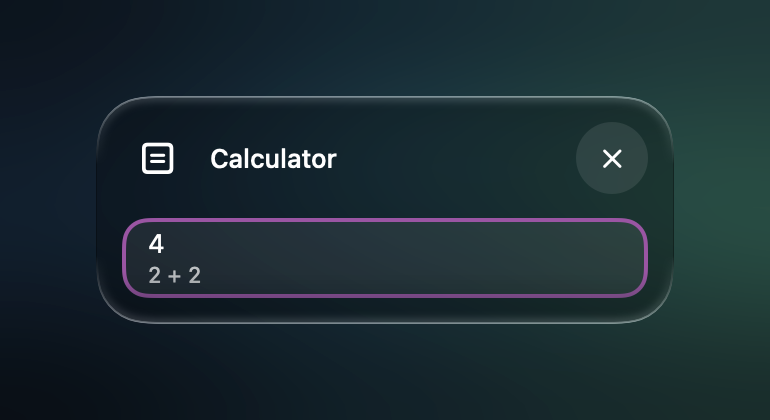
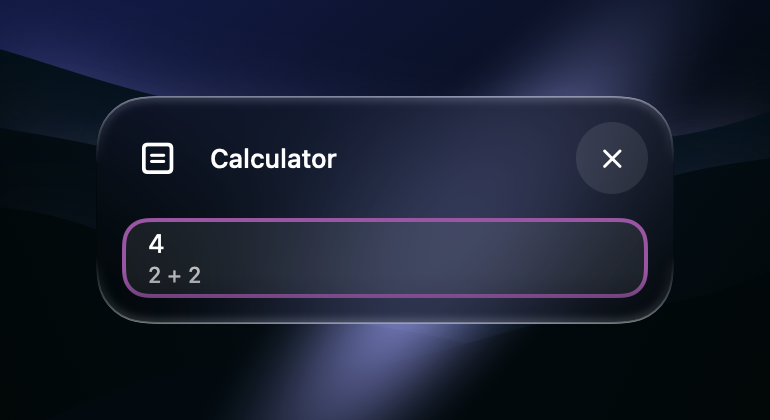
Draw each guide image on a dark ridged wallpaper with a violet light, placed by the image's name, through a real blur

diff --git a/app/Shell/Sandbox/SpotPictureStage.swift b/app/Shell/Sandbox/SpotPictureStage.swift
@@ -6,17 +6,34 @@ import SwiftUI
 struct SpotPictureStage<Content: View>: View {
     let size: CGSize
     let radius: CGFloat
-    @ViewBuilder let content: Content
+    /// What places the wallpaper, such as the name of the picture.
+    let seed: String
+    let content: Content
+
+    init(size: CGSize, radius: CGFloat, seed: String = "", @ViewBuilder content: () -> Content) {
+        self.size = size
+        self.radius = radius
+        self.seed = seed
+        self.content = content()
+    }
 
     static var margin: CGFloat { 48 }
     private static var shade: Double { 0.28 }
+    private static var blur: CGFloat { 40 }
+
+    /// The wallpaper blurred into a picture, because a blur of a view does not show when the view is drawn to a picture.
+    private var blurred: Image {
+        let whole = CGSize(width: size.width + 2 * Self.margin, height: size.height + 2 * Self.margin)
+        let renderer = ImageRenderer(content: SpotWallpaper(seed: seed).frame(width: whole.width, height: whole.height).blur(radius: Self.blur, opaque: true))
+        renderer.scale = 2
+        return renderer.cgImage.map { Image(decorative: $0, scale: 2) } ?? Image(systemName: "square")
+    }
 
     var body: some View {
         let shape = RoundedRectangle(cornerRadius: radius, style: .continuous)
         ZStack {
-            SpotWallpaper()
-            SpotWallpaper()
-                .blur(radius: SpotTheme.blur, opaque: true)
+            SpotWallpaper(seed: seed)
+            blurred
                 .overlay(Color.black.opacity(Self.shade))
                 .overlay(SpotTheme.glass)
                 .mask { shape.frame(width: size.width, height: size.height) }
@@ -28,22 +45,80 @@ struct SpotPictureStage<Content: View>: View {
     }
 }
 
-/// A dark blue-green wallpaper, which stands in for the desktop behind the panel and keeps clear of the accent colour.
+/// A dark wallpaper of layered ridges with a violet light between them, which stands in for the desktop behind the panel.
+/// The seed, such as the name of a picture, places the ridges and the light, so that each picture differs and stays the
+/// same each time it is drawn.
 struct SpotWallpaper: View {
+    var seed = ""
+
+    private static let sky = Color(red: 0.06, green: 0.10, blue: 0.27)
+    private static let ground = Color(red: 0.00, green: 0.03, blue: 0.03)
+    private static let light = Color(red: 0.62, green: 0.62, blue: 1.00)
+    private static let ridges = 6
+
     var body: some View {
-        MeshGradient(
-            width: 3,
-            height: 3,
-            points: [
-                [0, 0], [0.5, 0], [1, 0],
-                [0, 0.5], [0.6, 0.4], [1, 0.5],
-                [0, 1], [0.5, 1], [1, 1],
-            ],
-            colors: [
-                Color(red: 0.04, green: 0.08, blue: 0.12), Color(red: 0.05, green: 0.16, blue: 0.20), Color(red: 0.08, green: 0.22, blue: 0.22),
-                Color(red: 0.05, green: 0.12, blue: 0.18), Color(red: 0.07, green: 0.24, blue: 0.27), Color(red: 0.10, green: 0.30, blue: 0.26),
-                Color(red: 0.03, green: 0.06, blue: 0.09), Color(red: 0.05, green: 0.13, blue: 0.16), Color(red: 0.07, green: 0.18, blue: 0.17),
-            ]
-        )
+        Canvas { context, size in
+            var random = Seed(seed)
+            context.fill(Path(CGRect(origin: .zero, size: size)), with: .linearGradient(
+                Gradient(colors: [Self.sky, Self.ground]),
+                startPoint: CGPoint(x: size.width * 0.2, y: 0),
+                endPoint: CGPoint(x: size.width * 0.6, y: size.height)
+            ))
+            let glow = CGPoint(x: size.width * random.next(0.35, 0.65), y: size.height * random.next(0.45, 0.70))
+            let reach = max(size.width, size.height) * random.next(0.45, 0.6)
+            let tilt = Angle.degrees(random.next(-65, -45))
+            for index in 0..<Self.ridges {
+                let depth = Double(index + 1) / Double(Self.ridges)
+                let fromLeft = index.isMultiple(of: 2)
+                let start = size.height * (0.1 + 0.5 * depth) + size.height * random.next(-0.08, 0.08)
+                let slope = size.height * random.next(0.25, 0.55) * (fromLeft ? 1 : -1)
+                let wave = size.height * random.next(0.02, 0.06)
+                let phase = random.next(0, 6.28)
+                var path = Path()
+                path.move(to: CGPoint(x: 0, y: size.height))
+                let steps = 48
+                for step in 0...steps {
+                    let x = Double(step) / Double(steps)
+                    let y = start + slope * (fromLeft ? x : x - 1) + wave * sin(phase + x * 5) + wave * 0.4 * sin(phase * 2 + x * 13)
+                    path.addLine(to: CGPoint(x: x * size.width, y: y))
+                }
+                path.addLine(to: CGPoint(x: size.width, y: size.height))
+                path.closeSubpath()
+                let shade = Color(red: 0.01 * (1 - depth), green: 0.04 + 0.08 * (1 - depth), blue: 0.06 + 0.16 * (1 - depth))
+                var layer = context
+                layer.addFilter(.shadow(color: Self.light.opacity(0.35 * (1 - depth)), radius: 18))
+                layer.fill(path, with: .linearGradient(
+                    Gradient(colors: [shade, Self.ground]),
+                    startPoint: CGPoint(x: glow.x, y: start),
+                    endPoint: CGPoint(x: fromLeft ? 0 : size.width, y: size.height)
+                ))
+            }
+            var streak = context
+            streak.blendMode = .screen
+            streak.translateBy(x: glow.x, y: glow.y)
+            streak.rotate(by: tilt)
+            streak.scaleBy(x: 1, y: 0.28)
+            streak.fill(Path(ellipseIn: CGRect(x: -reach, y: -reach, width: 2 * reach, height: 2 * reach)), with: .radialGradient(
+                Gradient(colors: [Self.light.opacity(0.9), Self.light.opacity(0.3), .clear]),
+                center: .zero,
+                startRadius: 0,
+                endRadius: reach
+            ))
+        }
+    }
+}
+
+/// A small generator of numbers from a text, the same numbers for the same text.
+private struct Seed {
+    private var state: UInt64
+
+    init(_ text: String) {
+        state = text.utf8.reduce(1_469_598_103_934_665_603) { ($0 ^ UInt64($1)) &* 1_099_511_628_211 }
+    }
+
+    /// The next number between the two bounds.
+    mutating func next(_ low: Double, _ high: Double) -> Double {
+        state = state &* 6_364_136_223_846_793_005 &+ 1_442_695_040_888_963_407
+        return low + (high - low) * Double(state >> 11) / Double(1 << 53)
     }
 }

diff --git a/app/Shell/Sandbox/SpotCardPicture.swift b/app/Shell/Sandbox/SpotCardPicture.swift
@@ -20,7 +20,7 @@ enum SpotCardPicture {
         }
         let card = CGSize(width: SpotTokens.width(columns: size.columns), height: SpotTokens.height(rows: size.rows))
         let shape = RoundedRectangle(cornerRadius: SpotTokens.corner(for: size), style: .continuous)
-        let view = NSHostingView(rootView: SpotPictureStage(size: card, radius: SpotTokens.corner(for: size)) {
+        let view = NSHostingView(rootView: SpotPictureStage(size: card, radius: SpotTokens.corner(for: size), seed: URL(fileURLWithPath: path).lastPathComponent) {
             SpotCardDrawing(layout: layout, face: face, card: size) { _, _ in }
                 .padding(SpotTokens.cardPadding(for: size, isWidget: true))
                 .background(SpotTheme.ink.opacity(SpotTheme.fill), in: shape)
@@ -59,7 +59,7 @@ enum SpotCardPicture {
         let draw = {
             let card = CGSize(width: SpotTokens.width(columns: size.columns), height: SpotTokens.height(rows: size.rows))
             let shown = model.entries.first { $0.id == id } ?? entry
-            let view = NSHostingView(rootView: SpotPictureStage(size: card, radius: SpotTokens.corner(for: size)) {
+            let view = NSHostingView(rootView: SpotPictureStage(size: card, radius: SpotTokens.corner(for: size), seed: URL(fileURLWithPath: path).lastPathComponent) {
                 SpotCardView(entry: shown, size: size, index: -1, isPressed: false, takesDrag: false, isDropTarget: false, chainLetter: nil, model: model)
                     .environment(\.spotIsShown, true)
             }

diff --git a/app/Shell/Sandbox/SpotSheetPreview.swift b/app/Shell/Sandbox/SpotSheetPreview.swift
@@ -11,6 +11,8 @@ struct SpotSheetPreview: View {
     var onPress: (SpotPart) -> Void = { _ in }
     var list = ItemList()
     var customView: (CGSize) -> SpotCustomView? = { _ in nil }
+    /// What places the wallpaper behind it, such as the name of the picture.
+    var seed = ""
 
     var body: some View {
         let frame = panel.map { SpotTokens.panelRect($0).size } ?? SpotTokens.floatSize(rows: list.shown.count)
@@ -37,6 +39,6 @@ struct SpotSheetPreview: View {
         }
         .padding(SpotTokens.padding)
         .frame(width: frame.width, height: frame.height, alignment: .topLeading)
-        .background { SpotPictureStage(size: frame, radius: SpotTokens.radius) { Color.clear }.padding(-SpotPictureStage<Color>.margin) }
+        .background { SpotPictureStage(size: frame, radius: SpotTokens.radius, seed: seed) { Color.clear }.padding(-SpotPictureStage<Color>.margin) }
     }
 }

diff --git a/app/Shell/Sandbox/SpotSheetPicture.swift b/app/Shell/Sandbox/SpotSheetPicture.swift
@@ -31,7 +31,7 @@ enum SpotSheetPicture {
         let size = panel.map { SpotTokens.panelRect($0).size } ?? SpotTokens.floatSize(rows: list.shown.count)
         let preview = SpotSheetPreview(panel: panel, title: spot?.name ?? "Sheet", subtitle: spot?.subtitle ?? (spot == nil ? "Preview" : ""), symbol: spot?.symbol ?? "square.dashed", list: list, customView: { room in
             source.map { SpotCustomView(source: $0, values: values, card: .square, room: room, views: views) }
-        })
+        }, seed: URL(fileURLWithPath: path).lastPathComponent)
         let view = NSHostingView(rootView: preview
             .padding(margin)
             .preferredColorScheme(.dark))
